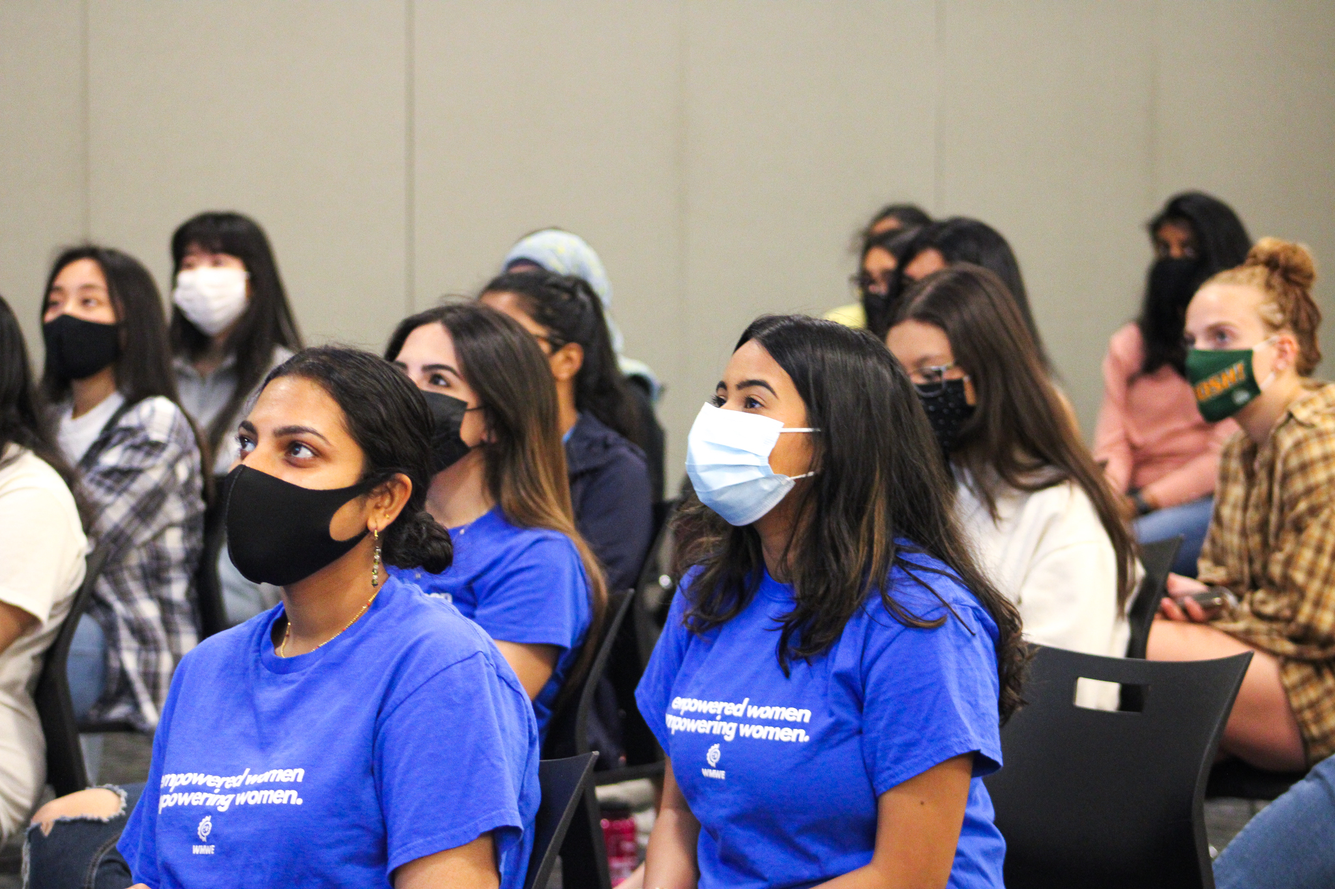
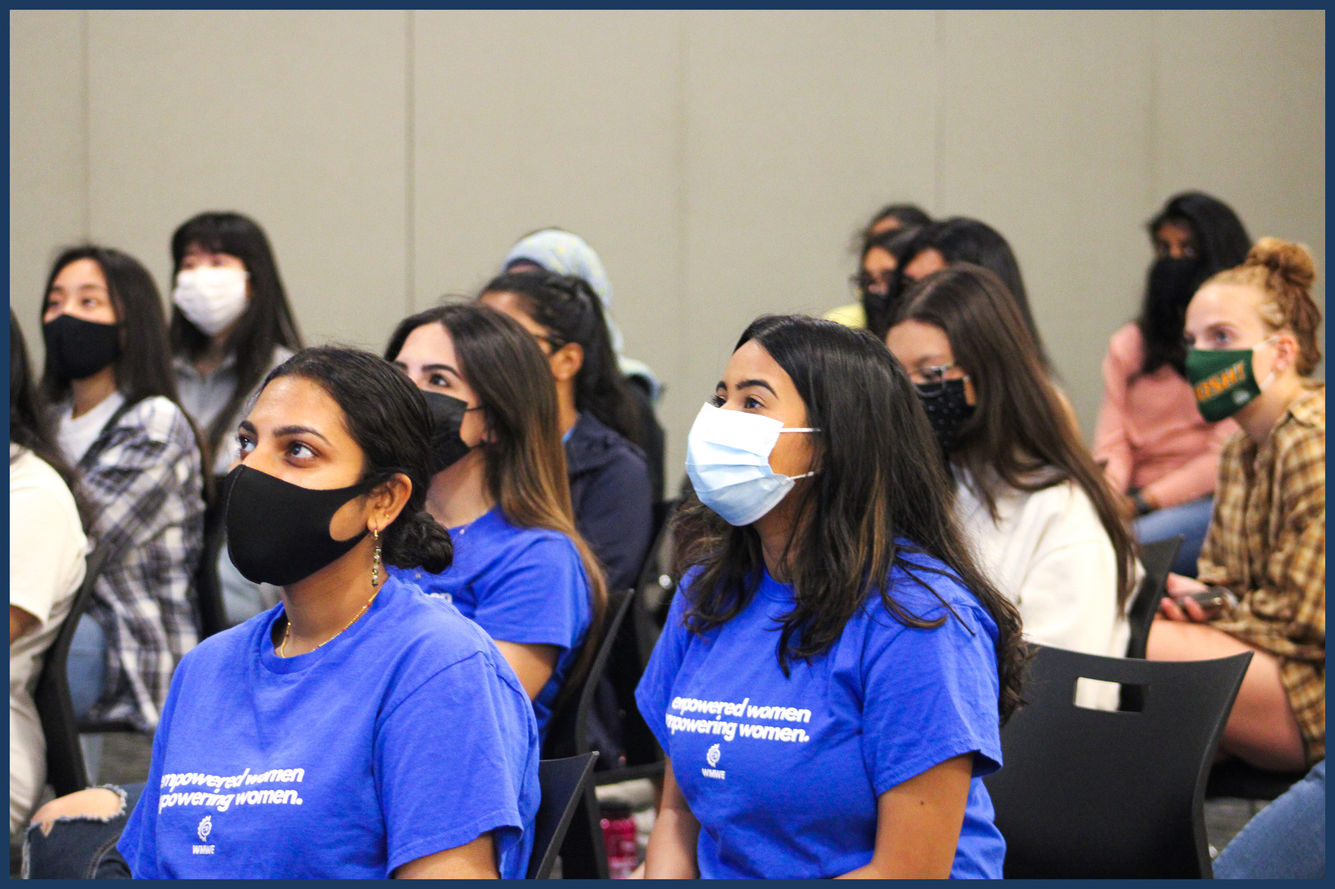
additional styling (image borders)

Changed region(s): [[0.0, 0.0, 1.0, 1.0]]

diff --git a/src/components/About.js b/src/components/About.js
@@ -4,9 +4,13 @@ import eventpic1 from './eventpic1.jpg'
 import eventpic2 from './eventpic2.jpg'
 import eventpic3 from './eventpic3.jpg'
 
-import support from './support.jpg'
-import empowerment1 from './empowerment1.jpg'
-import mentorship from './mentorship.jpg'
+// import support from './support.jpg'
+// import empowerment1 from './empowerment1.jpg'
+// import mentorship from './mentorship.jpg'
+
+import supportwithborder from './supportwithborder.jpg'
+import empowermentwithborder from './empowermentwithborder.jpg'
+import mentorshipwithborder from './mentorshipwithborder.jpg'
 
 function About(props) {
     return (
@@ -30,17 +34,17 @@ function About(props) {
 
              <div className="pillars">
              <h3 className='header'>our pillars.</h3>
-             <p><small>Support. We strive to provide support for all women through each other. 
+             <p><small><strong>Support.</strong> We strive to provide support for all women through each other. 
                 Your mentor, team, and everyone in WMWE is there to help you out 
                 whenever you need it. Before we are a University Wide Organization, 
                 we are just a group of people that want to help!</small></p>
 
-             <p><small>Empowerment. In the STEM field, women make up only 24% of the entire 
+             <p><small><strong>Empowerment.</strong> In the STEM field, women make up only 24% of the entire 
                 workforce, with the percentage only decreasing with higher positions.  
                 In WMWE, we strive to empower everyone and help make them stronger and more confident 
                 in whatever they do. After all, our slogan is “Empowered Women Empowering Women”.</small></p>
 
-             <p><small>  Mentorship. By linking you up with a professional 
+             <p><small><strong>Mentorship.</strong> By linking you up with a professional 
                 woman who is working in the STEM field in a semester long mentorship, 
                 you will learn everything you wanted to know. From professionalism in the workplace, 
                 to things you can do to upstart your career. In the mentee form, we ask for your major 
@@ -51,9 +55,10 @@ function About(props) {
 
              <div className='pillarpics'>
                 {/* images for pillars */}
-                <img className='support' src={support}/>
-                <img className='empowerment1' src={empowerment1}/>
-                <img className='mentorship' src={mentorship}/>
+
+                <img className='support' src={supportwithborder}/>
+                <img className='empowerment' src={empowermentwithborder}/>
+                <img className='mentorship' src={mentorshipwithborder}/>
              </div>
 
              <div className="history">

diff --git a/src/components/AboutStyle.css b/src/components/AboutStyle.css
@@ -11,10 +11,10 @@
     padding: 10px;
 }
 
-.support, .empowerment1, .mentorship {
+.support, .empowerment, .mentorship {
     min-width: 180px;
     min-height: 180px;
-    padding: 10px;
+    padding: 30px;
 }
     
 .missionpics, .pillarpics {
@@ -22,6 +22,7 @@
     position: relative;
     margin-left: 20%;
     margin-right: 20%;
+
 }
 
 
